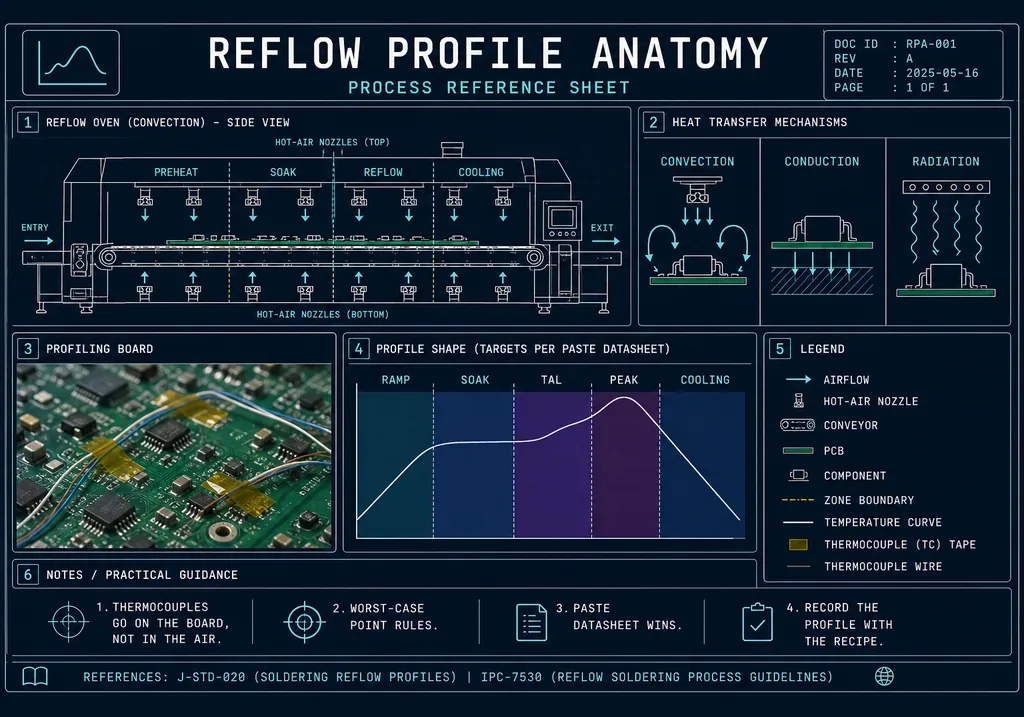
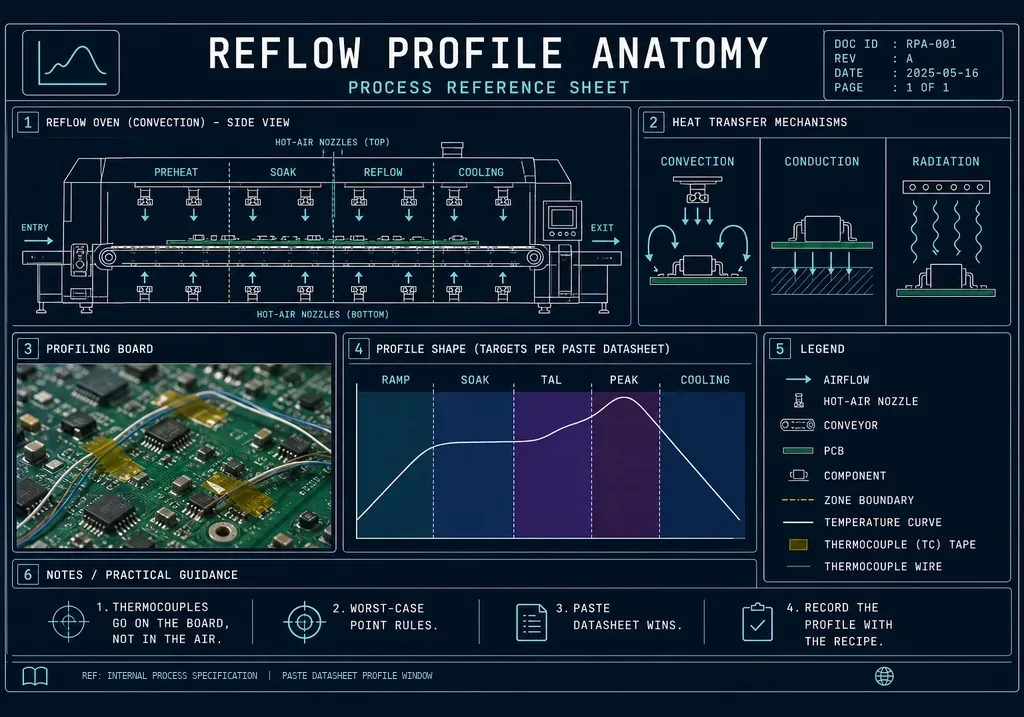
Phase 6: patch 3 standards references missed by 2x OCR (m06l01, m07l05, m09l04); 4x full-frame scan clean

Changed region(s): [[0.0625, 0.9205, 0.4375, 0.9512], [0.4688, 0.9205, 0.8125, 0.9512]]

diff --git a/course-clean/scripts/phase6-destandard.py b/course-clean/scripts/phase6-destandard.py
@@ -27,6 +27,9 @@ OVERRIDES = {
                 'REFER TO THE CONFORMAL COATING GUIDELINE FOR REQUIREMENTS AND TEST METHODS', 1],
                [125, 667, 764, 680, 'IPC-CC-830 - GUIDELINES', '', 1]],
     'm13l06': [[2, 687, 298, 699, 'REF: IPC/WHMA-A-620 | IPC-TM-650 | IEEE 1149.1', 'REF: INTERNAL PROCESS SPECIFICATION', 1]],
+    'm06l01': [[82, 670, 832, 682, 'REFERENCES: J-STD-020 | IPC-7530', 'REF: INTERNAL PROCESS SPECIFICATION  |  PASTE DATASHEET PROFILE WINDOW', 2]],
+    'm07l05': [[323, 671, 614, 683, 'ACCEPTABILITY OF ELECTRONIC ASSEMBLIES', 'WORKMANSHIP ACCEPTANCE CRITERIA', 2]],
+    'm09l04': [[81, 663, 665, 675, 'REFER TO IPC-A-610 FOR ACCEPTANCE CRITERIA', 'REFER TO THE APPLICABLE ACCEPTANCE CRITERIA FOR SOLDERED ELECTRONIC ASSEMBLIES.', 2]],
     'm06l05': [[*h[:4], h[4], ('CLASSIFICATION:' if h[4] == 'J-STD-020:' else None), 3] for h in HITS['m06l05']],
 }
 for k, v in OVERRIDES.items():

diff --git a/course-clean/docs/phase6-report.md b/course-clean/docs/phase6-report.md
@@ -89,5 +89,10 @@ changed.
   `STANDARD`, `CLASS LIMIT`, `CUSTOMER ACCEPTANCE LIMIT`, `CLASSIFICATION:`, etc.;
   long "REFER TO <standard>" sentences → generic guideline wording; the IPC logo on
   m03l02 blanked. Per-image overrides live in the script's `OVERRIDES` table.
-- Verification: second OCR pass → 0 remaining hits; spot-checked crops and full sheets.
+- Technologist review of the edited sheets found three small-print lines the 2× OCR pass had
+  missed (m06l01 footer `REFERENCES: J-STD-020 | IPC-7530`, m09l04 `REFER TO IPC-A-610 …`,
+  and the IPC-A-610 title *Acceptability of Electronic Assemblies* on m07l05); all three
+  were patched via `OVERRIDES`.
+- Verification: full-frame OCR at 4× in overlapping 200 px strips, O/0-tolerant regex →
+  0 remaining hits in 92 images; spot-checked crops and full sheets.
 - Pipeline re-run green (integrity OK, course tests 211/0, case-qa 57/0).
